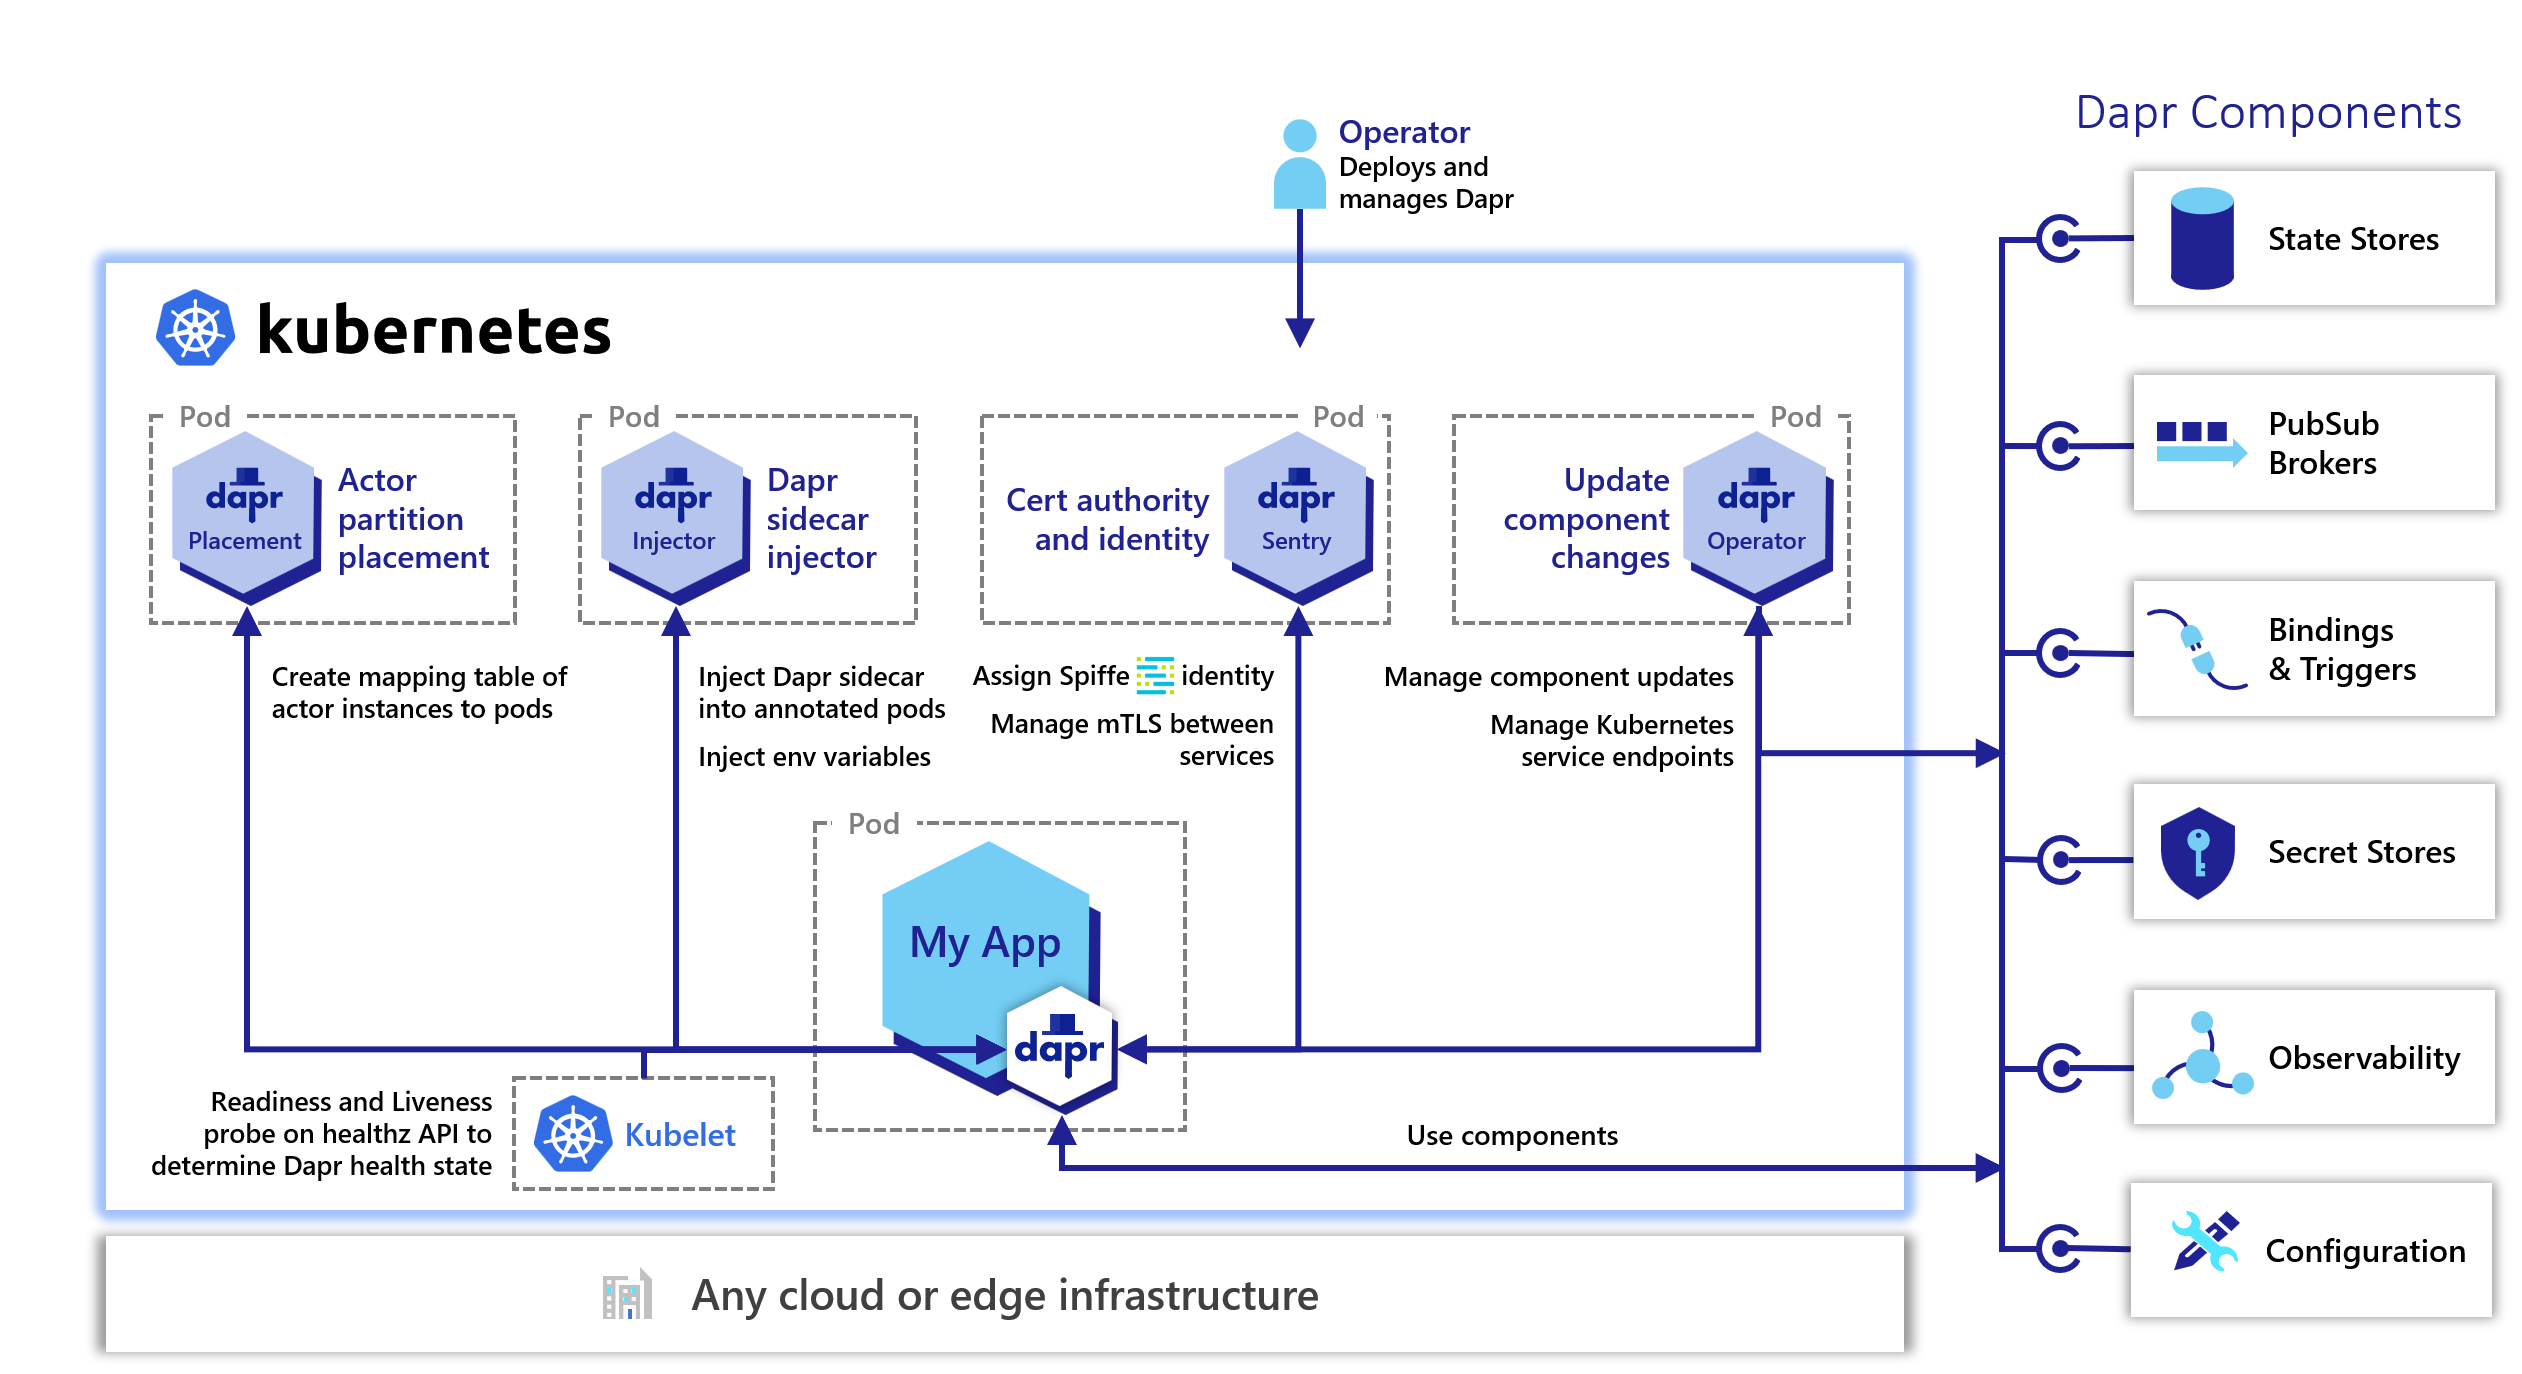
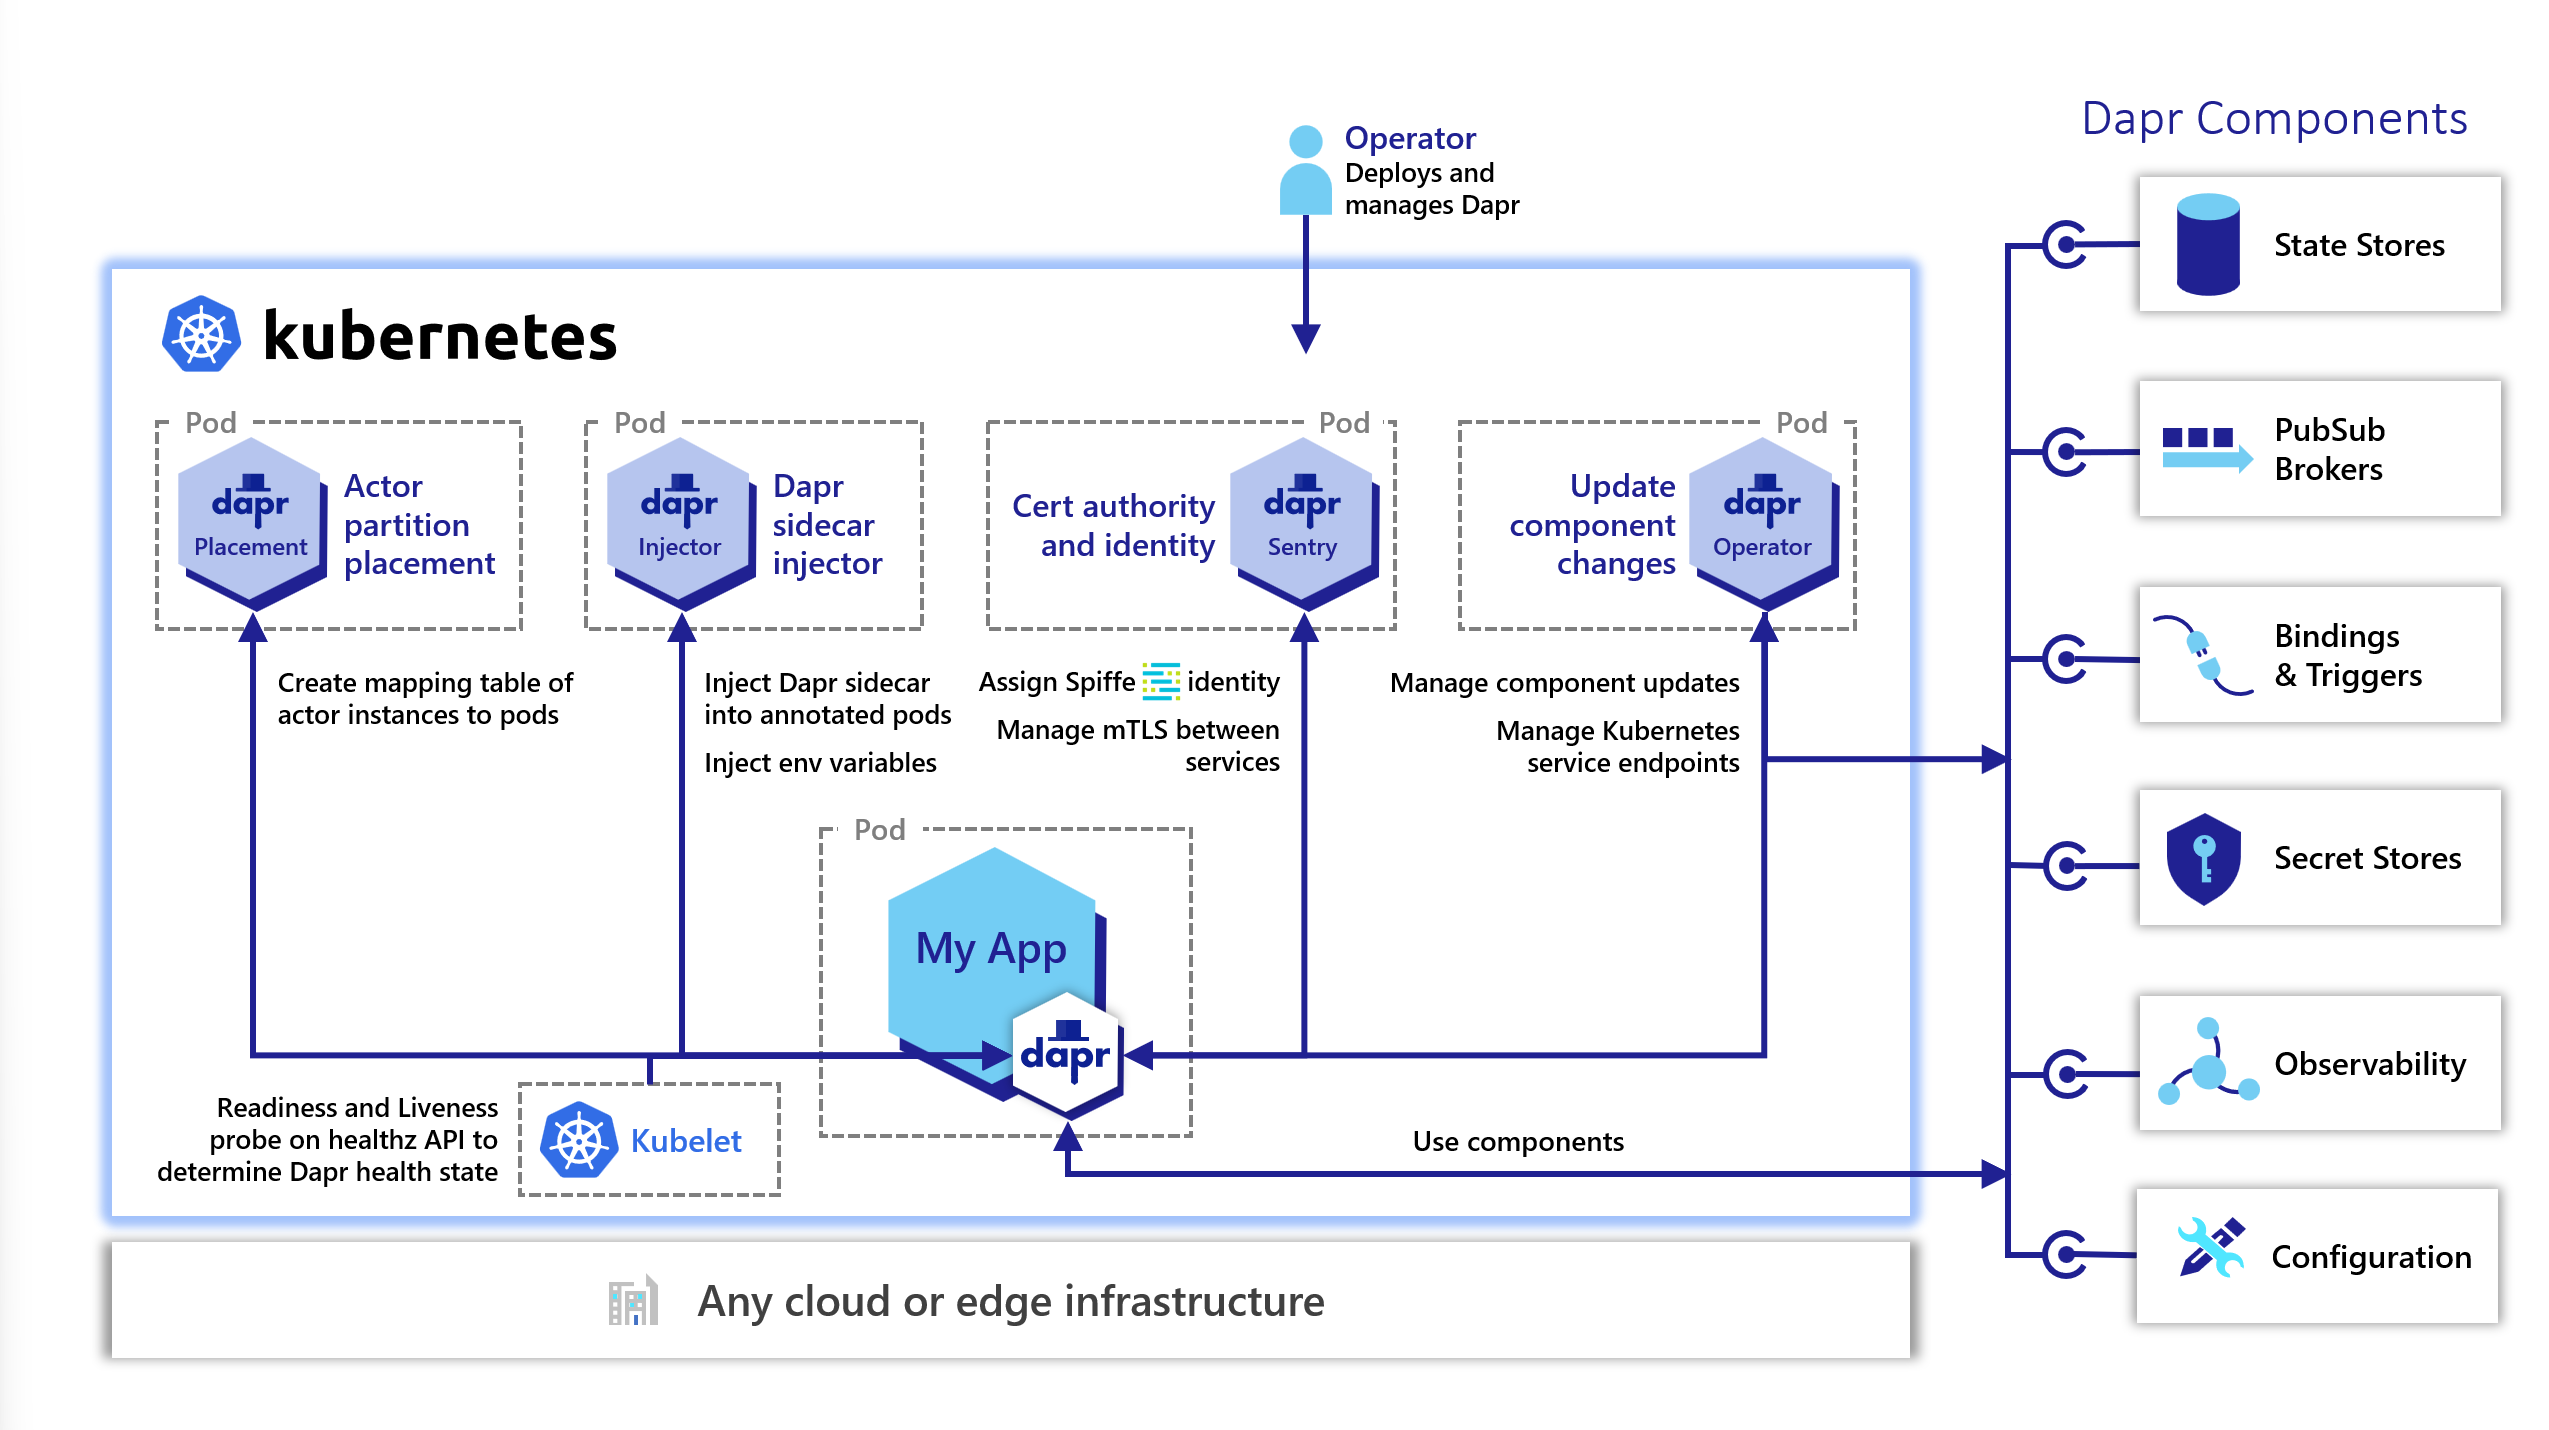
fixed link to wrong image

Changed region(s): [[0.0309, 0.0917, 1.0, 1.0], [0.8041, 0.0611, 0.9897, 0.0917]]

diff --git a/daprdocs/content/en/concepts/security-concept.md b/daprdocs/content/en/concepts/security-concept.md
@@ -93,6 +93,8 @@ When the Dapr sidecar initializes, it authenticates with the system pods using t
 The diagram below shows secure communication between the Dapr sidecar and the Dapr Sentry (Certificate Authority), Placement (actor placement) and the Kubernetes Operator system services
 
 <img src="/images/security-mTLS-dapr-system-services.png" width=1000>
+</br>
+
 
 # Operational Security 
 Dapr is designed for operators to manage mTLS certificate and enforce OAuth policies.
@@ -112,7 +114,7 @@ Dapr has an extensive set of security policies that can be applied to your appli
 ## API access policy
 In certain scenarios such as zero trust networks or when exposing the Dapr sidecar to external traffic through a frontend, it’s recommended to only enable the Dapr sidecar APIs that are being used by the app. Doing so reduces the attack surface and helps keep the Dapr APIs scoped to the actual needs of the application. You can control which APIs are accessible to the application by setting an API allow list in configuration, as shown in the diagram below.
 
-<img src="/images/security-mTLS-dapr-system-services.png" width=1000>
+<img src="/images/security-dapr-API-scoping.png" width=1000>
 
 Read [How-To: Selectively enable Dapr APIs on the Dapr sidecar]({{<ref "api-allowlist.md">}}) for more details.
 
